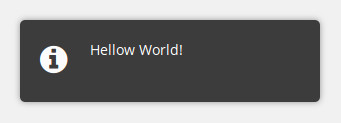
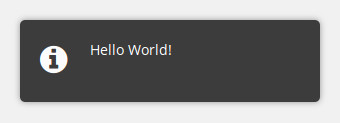
Corrected spelling error

diff --git a/README.md b/README.md
@@ -36,7 +36,7 @@ To use notify.js, you don't have to modify any files to make it work in your pro
 A notification can be produced with the following code:
 
 ```javascript
-var message = 'Hellow World!'
+var message = 'Hello World!'
 var seconds = 5;
 var type = 'info' // ... or 'error'
 
